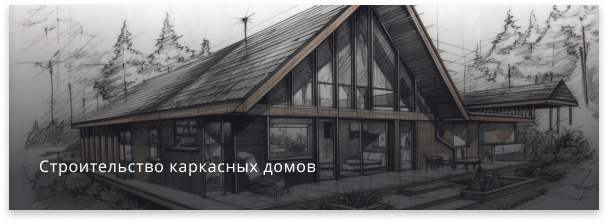
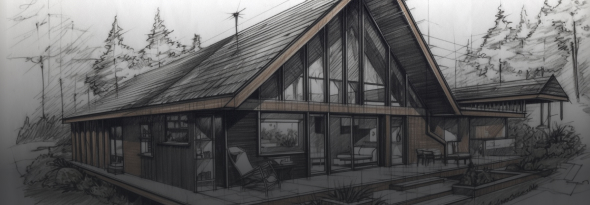
Загородные дома

diff --git a/#src/html/services.html b/#src/html/services.html
@@ -19,7 +19,7 @@
             </div>
             <div>
                 <div class="services__grid-wrapper">
-                    <img src="img/img-1.jpg" alt="" />
+                    <img src="img/img-2.jpg" alt="" />
                     <p class="services__grid-text text">
                         Строительство каркасных домов
                     </p>
@@ -27,7 +27,7 @@
             </div>
             <div>
                 <div class="services__grid-wrapper">
-                    <img src="img/img-1.jpg" alt="" />
+                    <img src="img/img-12.jpg" alt="" />
                     <p class="services__grid-text text">
                         Строительство блочных домов
                     </p>
@@ -35,27 +35,27 @@
             </div>
             <div class="services__flex">
                 <div class="services__grid-wrapper">
-                    <img src="img/img-1.jpg" alt="" />
+                    <img src="img/img-13.jpg" alt="" />
                     <p class="services__grid-text text">Инженерные системы</p>
                 </div>
                 <div class="services__grid-wrapper">
-                    <img src="img/img-1.jpg" alt="" />
+                    <img src="img/img-14.jpg" alt="" />
                     <p class="services__grid-text text">Кровельные работы</p>
                 </div>
             </div>
             <div class="services__flex">
                 <div class="services__grid-wrapper">
-                    <img src="img/img-1.jpg" alt="" />
+                    <img src="img/img-15.jpg" alt="" />
                     <p class="services__grid-text text">Монолитные работы</p>
                 </div>
                 <div class="services__grid-wrapper">
-                    <img src="img/img-1.jpg" alt="" />
+                    <img src="img/img-16.jpg" alt="" />
                     <p class="services__grid-text text">Реконструкция домов</p>
                 </div>
             </div>
             <div>
                 <div class="services__grid-wrapper">
-                    <img src="img/img-1.jpg" alt="" />
+                    <img src="img/img-17.jpg" alt="" />
                     <p class="services__grid-text text">Металлоконструкции</p>
                 </div>
             </div>

diff --git a/#src/html/gallery.html b/#src/html/gallery.html
@@ -1,0 +1,44 @@
+<section class="gallery">
+    <div class="container">
+        <h2 class="gallery__title title bef-block">Галерея наших работ</h2>
+    </div>
+    <div class="gallery__flex">
+        <div class="gallery__flex-img-wrapper">
+            <div class="gallery__flex-img">
+                <img src="img/img-5.jpg" alt="" />
+            </div>
+            <div class="gallery__flex-img">
+                <img src="img/img-6.jpg" alt="" />
+            </div>
+        </div>
+        <div>
+            <div class="gallery__content">
+                <p class="gallery__text text">
+                    Мы уверены, что наши дома оставят вам только приятные
+                    впечатления. В нашей галерее вы можете оценить внешний вид и
+                    интерьер наших домов. Мы также предоставляем
+                    видео-материалы, чтобы вы могли убедиться в качестве нашей
+                    работы.
+                </p>
+                <a href="">смотреть остальные</a>
+            </div>
+            <div class="gallery__images">
+                <div class="gallery__images-img">
+                    <img src="img/img-7.jpg" alt="" />
+                </div>
+                <div class="gallery__images-img">
+                    <img src="img/img-8.jpg" alt="" />
+                </div>
+                <div class="gallery__images-img">
+                    <img src="img/img-9.jpg" alt="" />
+                </div>
+                <div class="gallery__images-img">
+                    <img src="img/img-10.jpg" alt="" />
+                </div>
+                <div class="gallery__images-img">
+                    <img src="img/img-11.jpg" alt="" />
+                </div>
+            </div>
+        </div>
+    </div>
+</section>

diff --git a/#src/scss/sections/gallery.scss b/#src/scss/sections/gallery.scss
@@ -1,0 +1,61 @@
+.gallery {
+    padding-top: 114px;
+    &__title {
+        color: #161718;
+        max-width: 378px;
+        margin-bottom: 73px;
+    }
+    &__flex {
+        display: flex;
+        &-img {
+            width: 50%;
+            img {
+                width: 100%;
+                height: 486px;
+                object-fit: cover;
+            }
+            &-wrapper {
+                display: flex;
+                flex: 0 1 50%;
+            }
+        }
+        & > div:last-child {
+            flex: 0 1 50%;
+            display: flex;
+            flex-direction: column;
+        }
+    }
+    &__text {
+        max-width: 591px;
+        color: #161718;
+        margin-bottom: 26px;
+    }
+    &__content {
+        padding: 20px;
+        background: #f3ecde;
+        flex: 1 1 auto;
+        display: flex;
+        flex-direction: column;
+        justify-content: center;
+        a {
+            font-size: 16px;
+            line-height: 27 / 16 * 100%;
+            letter-spacing: 0.04em;
+            text-transform: uppercase;
+            color: #161718;
+            border-bottom: 1px solid #000000;
+            width: fit-content;
+        }
+    }
+    &__images {
+        display: flex;
+        &-img {
+            width: 25%;
+            img {
+                width: 100%;
+                height: 204px;
+                object-fit: cover;
+            }
+        }
+    }
+}

diff --git a/#src/html/footer.html b/#src/html/footer.html
@@ -1,1 +1,28 @@
-<footer class="footer"></footer>
+<footer class="footer">
+    <div class="footer__container container">
+        <ul class="footer__list">
+            <li class="footer__list-item">
+                <a href="#" class="footer__list-link">проекты</a>
+            </li>
+            <li class="footer__list-item">
+                <a href="#" class="footer__list-link">галерея</a>
+            </li>
+            <li class="footer__list-item">
+                <a href="#" class="footer__list-link">услуги</a>
+            </li>
+            <li class="footer__list-item">
+                <a href="#" class="footer__list-link">контакты</a>
+            </li>
+        </ul>
+        <div class="footer__flex">
+            <p class="text">Ленинградское ш. 23А, Рахья</p>
+            <div class="footer__social">
+                <a href="#" class="icon-2"></a>
+                <a href="#" class="icon-3"></a>
+            </div>
+            <a href="tel:+7(911)990 53-02" class="icon-1 footer__tel"
+                >+7 (911) 990 53-02</a
+            >
+        </div>
+    </div>
+</footer>

diff --git a/#src/scss/sections/footer.scss b/#src/scss/sections/footer.scss
@@ -1,2 +1,44 @@
 .footer {
+    background: #161718;
+    padding: 116px 0 108px 0;
+    &__list {
+        display: flex;
+        margin-left: -12px;
+        &-link {
+            padding: 12px;
+            font-size: 16px;
+            line-height: 28 / 16 * 100%;
+            color: white;
+            text-transform: uppercase;
+        }
+    }
+    &__container {
+        display: flex;
+        justify-content: space-between;
+    }
+    &__tel {
+        display: flex;
+        align-items: center;
+        gap: 8px;
+        color: #d27b32;
+        font-size: 18px;
+        line-height: 28 / 16 * 100%;
+        &:before {
+            color: #d27b32;
+        }
+    }
+    &__flex {
+        display: flex;
+        align-items: center;
+        gap: 27px;
+    }
+    &__social {
+        display: flex;
+        gap: 20px;
+        margin-left: 30px;
+        a:before {
+            font-size: 30px;
+            color: white;
+        }
+    }
 }

diff --git a/#src/scss/sections/feedback.scss b/#src/scss/sections/feedback.scss
@@ -1,0 +1,36 @@
+.feedback {
+    padding: 110px 0 101px 0;
+    background: #161718;
+    &__container {
+        display: flex;
+        justify-content: space-between;
+    }
+    &__title {
+        font-size: 25px;
+        line-height: 32 / 25 * 100%;
+        letter-spacing: 0.04em;
+        text-transform: uppercase;
+        color: white;
+        padding-bottom: 12px;
+        border-bottom: 1px solid #ffffff;
+        margin-bottom: 33px;
+    }
+    &__text {
+        max-width: 590px;
+    }
+    &__input {
+        display: block;
+        width: 285px;
+        height: 31px;
+        border-bottom: 1px solid #ffffff;
+        background-color: transparent;
+        margin-bottom: 36px;
+        color: white;
+        &::placeholder {
+            font-size: 16px;
+            line-height: 27 / 16 * 100%;
+            letter-spacing: 0.04em;
+            color: #5a5a5a;
+        }
+    }
+}

diff --git a/#src/html/feedback.html b/#src/html/feedback.html
@@ -1,0 +1,17 @@
+<section class="feedback">
+    <div class="feedback__container container">
+        <div>
+            <h3 class="feedback__title">
+                Хотите воплотить свои мечты в жизнь?
+            </h3>
+            <p class="feedback__text text">
+                Свяжитесь с нами уже сегодня. Мы готовы помочь вам построить дом
+                вашей мечты
+            </p>
+        </div>
+        <form action="#">
+            <input name="tel" placeholder="Телефон" class="feedback__input" />
+            <button type="submit" class="btn">Оставить заявку</button>
+        </form>
+    </div>
+</section>

diff --git a/#src/scss/style.scss b/#src/scss/style.scss
@@ -30,10 +30,21 @@ body {
     background-color: #d27b32;
     margin-bottom: 11px;
 }
+.btn {
+    padding: 10px 30px 10px 30px;
+    background: #d27b32;
+    border-radius: 6px;
+    font-size: 16px;
+    line-height: 27 / 16 * 100%;
+    letter-spacing: 0.04em;
+    color: #ffffff;
+}
 
 @import './sections/header';
 @import './sections/intro';
 @import './sections/services';
 @import './sections/projects';
 @import './sections/advantages';
+@import './sections/gallery';
+@import './sections/feedback';
 @import './sections/footer';

diff --git a/#src/index.html b/#src/index.html
@@ -15,7 +15,8 @@
     <body class="body">
         @@include('./html/header.html') @@include('./html/intro.html')
         @@include('./html/services.html') @@include('./html/projects.html')
-        @@include('./html/advantages.html')
+        @@include('./html/advantages.html') @@include('./html/gallery.html')
+        @@include('./html/feedback.html') @@include('./html/footer.html')
         <script src="js/swiper-bundle.min.js"></script>
         <script src="js/script.js"></script>
     </body>
